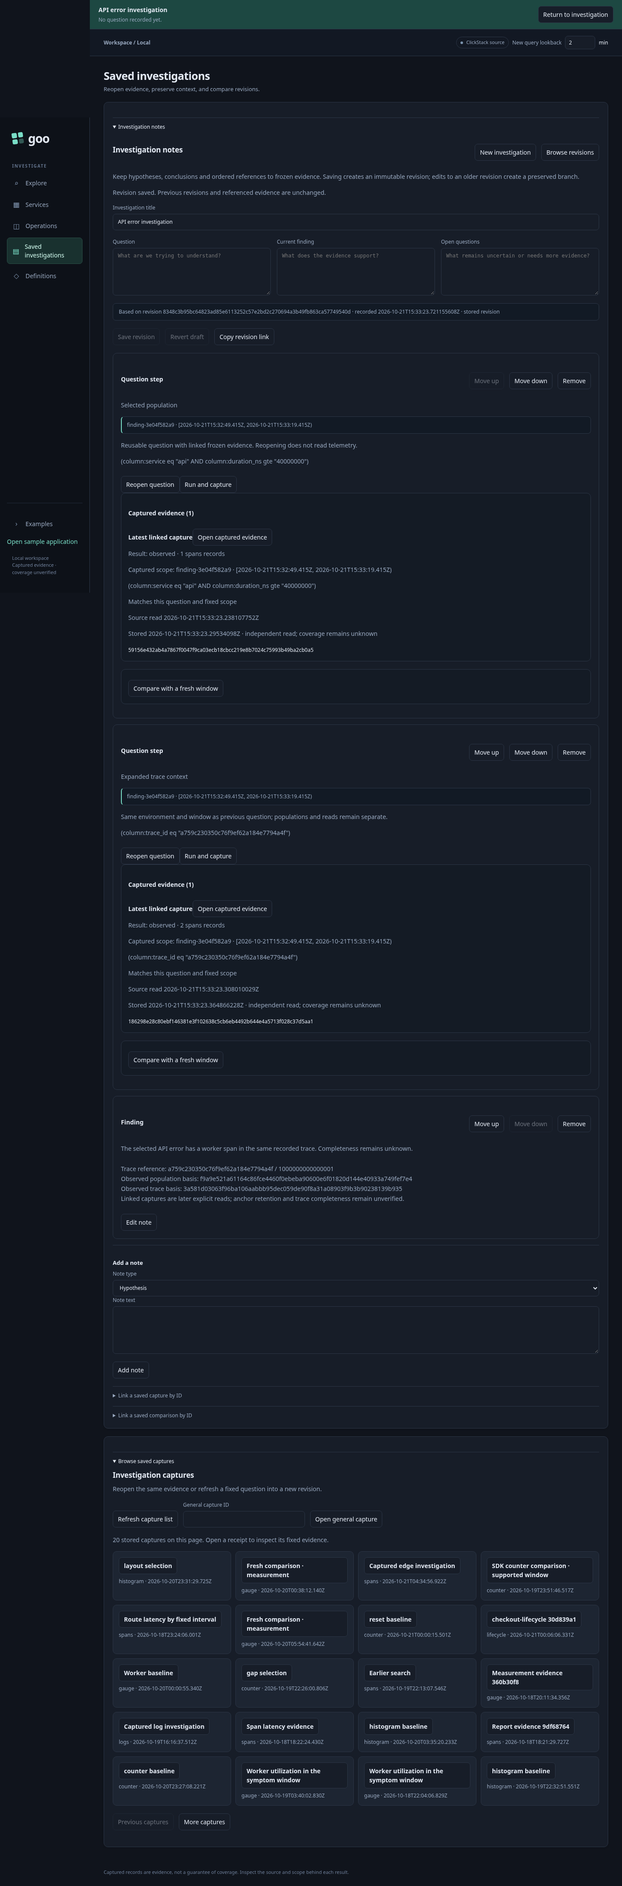
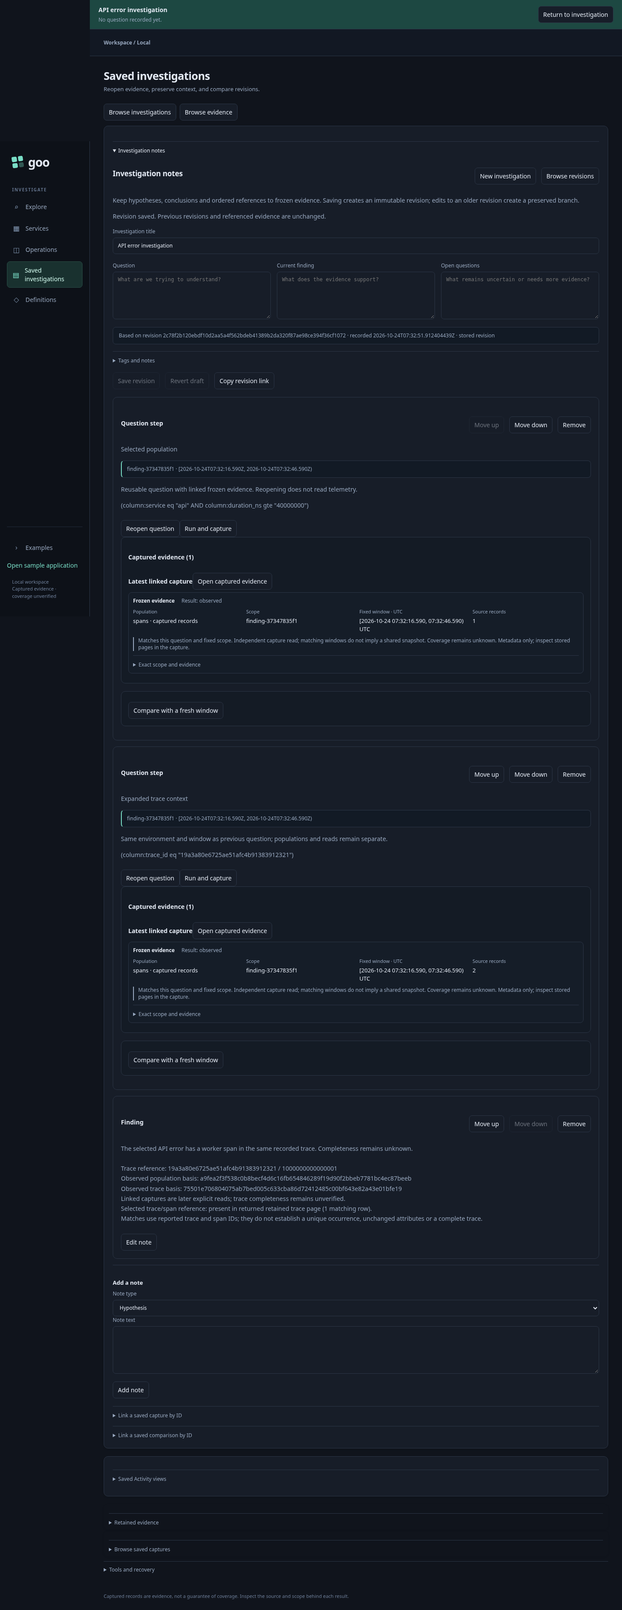
Preserve bounded trace anchor continuity in findings

diff --git a/ui/trace-journey.js b/ui/trace-journey.js
@@ -1,7 +1,20 @@
 /* Application adapters connect Go-selected page examples to explicit evidence custody. */
 (function(global){
  const workspace=()=>global.GooWorkspace||(typeof module!=='undefined'?require('./workspace'):null);
- function findingCards({population,trace,text,traceID,spanID='',populationBasis,traceBasis}){
+ // Reference continuity checks only the returned retained page, never unseen pages.
+ function anchorContinuity(page,traceID,spanID){
+  const unavailable=reason=>({state:'unavailable',text:'Selected trace/span reference: unavailable ('+reason+').'});
+  if(!/^[a-f0-9]{32}$/.test(traceID||'')||/^0+$/.test(traceID)||!/^[a-f0-9]{16}$/.test(spanID||'')||/^0+$/.test(spanID))return unavailable('usable selected span reference missing');
+  const r=page?.explore;let step;
+  try{step=workspace().questionFromEvidence(page?.receipt).step;const q=step.record;if(step.kind!=='record'||q.signal!=='spans'||q.where?.all?.length!==1||q.where.all[0].field?.kind!=='column'||q.where.all[0].field.key!=='trace_id'||q.where.all[0].op!=='eq'||q.where.all[0].value!==traceID||!r?.question||workspace().evidenceDifference(step,{kind:'explore',explore:r.question}).length)return unavailable('returned page scope does not match the trace capture');}catch{return unavailable('trace capture page unavailable');}
+  if(!['observed','no_data'].includes(r.state)||!Array.isArray(r.rows))return unavailable('retained page rows unavailable or read changed');
+  const usable=row=>row&&typeof row==='object'&&!Array.isArray(row)&&/^[a-f0-9]{32}$/.test(row.TraceId||'')&&!/^0+$/.test(row.TraceId)&&/^[a-f0-9]{16}$/.test(row.SpanId||'')&&!/^0+$/.test(row.SpanId);
+  const matches=r.rows.filter(row=>usable(row)&&row.TraceId===traceID&&row.SpanId===spanID).length;
+  if(!matches&&r.rows.some(row=>!usable(row)))return unavailable('some returned rows lack usable trace/span references');
+  const state=matches?'present':'page-miss',text='Selected trace/span reference: '+(matches?'present in returned retained trace page ('+matches+' matching '+(matches===1?'row':'rows')+').':'not found in returned retained trace page.')+'\nMatches use reported trace and span IDs; they do not establish a unique occurrence, unchanged attributes or a complete trace.'+(page.nextCursor||r.hasMore?'\nOnly this returned page was checked; more retained pages exist.':'')+(page.recordsLimited?'\nThe capture retained a bounded source subset.':'');
+  return {state,matches,text};
+ }
+ function findingCards({population,trace,text,traceID,spanID='',populationBasis,traceBasis,tracePage}){
   if(typeof text!=='string'||!text.trim()||new TextEncoder().encode(text).length>3000)throw Error('Enter a finding of at most 3000 UTF-8 bytes.');
   if(!/^[a-f0-9]{32}$/.test(traceID)||/^0+$/.test(traceID)||spanID&&(!/^[a-f0-9]{16}$/.test(spanID)||/^0+$/.test(spanID)))throw Error('Invalid trace reference.');
   const a=workspace().questionFromEvidence(population),b=workspace().questionFromEvidence(trace);
@@ -9,7 +22,7 @@
   const p=a.step.scope,t=b.step.scope,q=b.step.record;
   if(!workspace().sameWindow(p,t)||q.where?.all?.length!==1||q.where.all[0].field?.kind!=='column'||q.where.all[0].field.key!=='trace_id'||q.where.all[0].op!=='eq'||q.where.all[0].value!==traceID)throw Error('Trace capture differs from the selected population environment, window or exact trace reference.');
   const basis=v=>/^[a-f0-9]{64}$/.test(v||'')?v:'unavailable';
-  return [{...a,key:population.id,caption:'Selected population'},{...b,key:trace.id,caption:'Expanded trace context'},{kind:'note',role:'finding',text:text.trim()+'\n\nTrace reference: '+traceID+(spanID?' / '+spanID:'')+'\nObserved population basis: '+basis(populationBasis)+'\nObserved trace basis: '+basis(traceBasis)+'\nLinked captures are later explicit reads; anchor retention and trace completeness remain unverified.'}];
+  return [{...a,key:population.id,caption:'Selected population'},{...b,key:trace.id,caption:'Expanded trace context'},{kind:'note',role:'finding',text:text.trim()+'\n\nTrace reference: '+traceID+(spanID?' / '+spanID:'')+'\nObserved population basis: '+basis(populationBasis)+'\nObserved trace basis: '+basis(traceBasis)+'\nLinked captures are later explicit reads; trace completeness remains unverified.\n'+anchorContinuity(tracePage?.receipt?.id===trace.id?tracePage:null,traceID,spanID).text}];
  }
  function examples(host,data,{openTrace}={}){
   const node=global.GooUI.node;host.replaceChildren();host.className='trace-example-section';host.hidden=data.question.signal!=='spans';if(host.hidden)return;
@@ -20,7 +33,7 @@
  }
  function finding(host,{population,trace,traceID,spanID,populationBasis,traceBasis,current=()=>host.isConnected}){
   const node=global.GooUI.node,details=node('details',undefined,'trace-finding'),text=node('textarea'),label=node('label','Finding supported by this evidence'),button=node('button','Capture evidence and stage finding'),status=node('p'),recovery=node('div');text.maxLength=3000;text.rows=3;label.append(text);details.append(node('summary','Record a finding'),label,node('p','Reread the selected population and expanded trace as two independent captures, then stage both with your finding. Save the investigation revision explicitly. Later reads may differ from these observed views.'),button,status,recovery);host.append(details);status.setAttribute('role','status');button.disabled=true;text.oninput=()=>{button.disabled=!text.value.trim()};
-  button.onclick=async()=>{if(!current())return;const expected=global.GooDocuments.context?.();if(expected?.busy||expected?.pending){status.textContent='Finish the pending note or save operation before capturing a finding.';return}const message=text.value,selectedSpan=spanID();if(!message.trim()||new TextEncoder().encode(message).length>3000){status.textContent='Enter a finding of at most 3000 UTF-8 bytes.';return}button.disabled=text.disabled=true;const captured=[];recovery.replaceChildren();status.textContent='Capturing selected population and expanded trace…';try{for(const [title,q]of [['Finding population',population],['Finding trace '+traceID,trace]]){if(!current())throw Error('Trace context changed.');const response=await fetch('/api/captures',{method:'POST',headers:{'Content-Type':'application/json'},body:JSON.stringify({title,question:{kind:'explore',explore:q}})}),page=await response.json();if(!response.ok)throw Error(page.error||'Capture unavailable');captured.push(page.receipt);const link=node('a','Open retained '+title.toLowerCase());link.href='#capture='+page.receipt.id;recovery.append(link,node('small',page.receipt.id,'reference-id'))}if(!current())throw Error('Trace context changed. Captures remain retained.');const bundle={population:captured[0],trace:captured[1],text:message,traceID,spanID:selectedSpan,populationBasis,traceBasis};global.GooDocuments.stageFinding(bundle,expected);status.textContent='Finding and both captures staged. Save the investigation revision to preserve them.'}catch(e){status.textContent=e.message+(captured.length?' Retained captures are linked below; no finding was staged.':' No finding was staged.')}finally{button.disabled=false;text.disabled=false}};
+  button.onclick=async()=>{if(!current())return;const expected=global.GooDocuments.context?.();if(expected?.busy||expected?.pending){status.textContent='Finish the pending note or save operation before capturing a finding.';return}const message=text.value,selectedSpan=spanID();if(!message.trim()||new TextEncoder().encode(message).length>3000){status.textContent='Enter a finding of at most 3000 UTF-8 bytes.';return}button.disabled=text.disabled=true;const captured=[],pages=[];recovery.replaceChildren();status.textContent='Capturing selected population and expanded trace…';try{for(const [title,q]of [['Finding population',population],['Finding trace '+traceID,trace]]){if(!current())throw Error('Trace context changed.');const response=await fetch('/api/captures',{method:'POST',headers:{'Content-Type':'application/json'},body:JSON.stringify({title,question:{kind:'explore',explore:q}})}),page=await response.json();if(!response.ok)throw Error(page.error||'Capture unavailable');captured.push(page.receipt);pages.push(page);const link=node('a','Open retained '+title.toLowerCase());link.href='#capture='+page.receipt.id;recovery.append(link,node('small',page.receipt.id,'reference-id'))}if(!current())throw Error('Trace context changed. Captures remain retained.');const bundle={population:captured[0],trace:captured[1],text:message,traceID,spanID:selectedSpan,populationBasis,traceBasis,tracePage:pages[1]};global.GooDocuments.stageFinding(bundle,expected);status.textContent='Finding and both captures staged. Save the investigation revision to preserve them.'}catch(e){status.textContent=e.message+(captured.length?' Retained captures are linked below; no finding was staged.':' No finding was staged.')}finally{button.disabled=false;text.disabled=false}};
  }
- const api={findingCards,examples,finding};if(typeof module!=='undefined')module.exports=api;else global.GooTraceJourney=api;
+ const api={anchorContinuity,findingCards,examples,finding};if(typeof module!=='undefined')module.exports=api;else global.GooTraceJourney=api;
 })(typeof window==='undefined'?globalThis:window);

diff --git a/journeys/trace-finding.spec.js b/journeys/trace-finding.spec.js
@@ -15,6 +15,6 @@ test('87 follow bounded trace examples and explicitly preserve a finding',async(
  let attempts=0;await page.route('**/api/captures',route=>{if(route.request().method()!=='POST')return route.continue();return ++attempts===2?route.fulfill({status:503,json:{error:'Trace capture unavailable'}}):route.continue()});
  await form.getByRole('button',{name:'Capture evidence and stage finding'}).click();await expect(form.getByRole('status')).toContainText('no finding was staged');await expect(form.getByRole('link',{name:'Open retained finding population'})).toBeVisible();expect(writes).toBe(0);await expect(page.locator('#documentCards [data-kind=question]')).toHaveCount(0);expect(captures).toHaveLength(1);const orphan=captures.shift();expect((await request.get(base+'/api/captures/'+orphan.receipt.id)).ok()).toBe(true);await page.unroute('**/api/captures');
  await form.getByRole('button',{name:'Capture evidence and stage finding'}).click();await expect(page.locator('#documentCards [data-kind=question]')).toHaveCount(2);expect(writes).toBe(0);expect(captures).toHaveLength(2);expect(captures[0].receipt.question.explore.where).toEqual(q.where);expect(captures[1].receipt.question.explore.where).toEqual({all:[{field:{kind:'column',key:'trace_id'},op:'eq',value:traces[0]}]});expect(captures[1].receipt.question.explore.environment).toBe(environment);expect(captures[1].receipt.question.explore.fromMs).toBe(q.fromMs);expect(captures[1].explore.count).toBe('2');
- await page.locator('#documentTitle').fill('API error investigation');const saved=page.waitForResponse(r=>r.url().endsWith('/api/documents')&&r.request().method()==='POST');await page.locator('#documentSave').click();const doc=await(await saved).json();await expect(page.locator('#documentStatus')).toContainText('Revision saved');expect(doc.cards).toHaveLength(3);expect(doc.cards[0].evidence).toEqual([captures[0].receipt.id]);expect(doc.cards[1].evidence).toEqual([captures[1].receipt.id]);expect(doc.cards[2].text).toContain(traces[0]);await page.screenshot({path:'docs/journeys/screenshots/87c-saved-trace-finding.png',fullPage:true});
+ await page.locator('#documentTitle').fill('API error investigation');const saved=page.waitForResponse(r=>r.url().endsWith('/api/documents')&&r.request().method()==='POST');await page.locator('#documentSave').click();const doc=await(await saved).json();await expect(page.locator('#documentStatus')).toContainText('Revision saved');expect(doc.cards).toHaveLength(3);expect(doc.cards[0].evidence).toEqual([captures[0].receipt.id]);expect(doc.cards[1].evidence).toEqual([captures[1].receipt.id]);expect(doc.cards[2].text).toContain(traces[0]);expect(doc.cards[2].text).toContain('Selected trace/span reference: present in returned retained trace page (1 matching row).');expect(doc.cards[2].text).toContain('unchanged attributes or a complete trace');await page.screenshot({path:'docs/journeys/screenshots/87c-saved-trace-finding.png',fullPage:true});
  const expected=await page.evaluate(()=>GooDocuments.context());await page.locator('#documentTitle').fill('Unsaved concurrent edit');const rejection=await page.evaluate(({bundle,expected})=>{try{GooDocuments.stageFinding(bundle,expected);return ''}catch(e){return e.message}},{bundle:{population:captures[0].receipt,trace:captures[1].receipt,text:'Must not enter a changed investigation',traceID:traces[0]},expected});expect(rejection).toContain('Investigation changed');await expect(page.locator('#documentCards [data-kind=question]')).toHaveCount(2);expect(writes).toBe(1);const readsBeforeReopen=sourceReads;const count=captures.length;await page.goto(base+'/#document='+doc.id);await expect(page.locator('#documentCards [data-kind=question]')).toHaveCount(2);expect(captures.length).toBe(count);expect(sourceReads).toBe(readsBeforeReopen);expect(writes).toBe(1);await page.setViewportSize({width:390,height:844});expect(await page.evaluate(()=>document.documentElement.scrollWidth<=innerWidth)).toBe(true);expect(errors).toEqual([]);const dir=path.resolve('artifacts/trace-finding',environment);await fs.mkdir(dir,{recursive:true});const ledger=path.join(dir,'ledger.json');await fs.writeFile(ledger,JSON.stringify({q,captures,doc,orphan,traceID:traces[0],beforeReopen:readsBeforeReopen,afterReopen:sourceReads}));await verifyWithGo(dir,'TestQuintTraceFindingLedger',{GOO_TRACE_FINDING_LEDGER:ledger});if(process.env.GOO_TRACE_FINDING_BOMBADIL==='1'){const actor=await startBombadil({dir:path.join(dir,'bombadil'),url:base+'/'+stepLink(recordStep(q)),specification:'verification/bombadil/trace-finding.ts',seconds:30});try{await actor.finish()}finally{await actor.stop()}}
 });

diff --git a/tests/trace-journey.test.js b/tests/trace-journey.test.js
@@ -1,4 +1,11 @@
-const {test}=require('node:test'),assert=require('node:assert/strict'),{findingCards}=require('../ui/trace-journey');
+const {test}=require('node:test'),assert=require('node:assert/strict'),{findingCards,anchorContinuity}=require('../ui/trace-journey');
 const id=n=>String(n).padStart(64,'0'),traceID='1'.repeat(32),spanID='2'.repeat(16),base={signal:'spans',environment:'prod',fromMs:1000,toMs:2000,limit:100,offset:0,where:{field:{kind:'attribute',key:'http.route'},op:'eq',value:'/items'}},expanded={...base,where:{all:[{field:{kind:'column',key:'trace_id'},op:'eq',value:traceID}]}},receipt=(n,q)=>({id:id(n),question:{kind:'explore',explore:structuredClone(q)}}),bundle=()=>({population:receipt(1,base),trace:receipt(2,expanded),text:'Slow matching spans cross the inventory service.',traceID,spanID,populationBasis:id(3),traceBasis:id(4)});
 test('finding stages separately scoped captured questions and an attributed authored note',()=>{const input=bundle(),before=structuredClone(input),cards=findingCards(input);assert.deepEqual(input,before);assert.equal(cards.length,3);assert.deepEqual(cards[0].evidence,[id(1)]);assert.deepEqual(cards[0].step.record,base);assert.deepEqual(cards[1].step.record,expanded);assert.equal(cards[2].role,'finding');assert.ok(cards[2].text.includes(traceID+' / '+spanID));assert.ok(cards[2].text.includes('later explicit reads'));});
 test('finding rejects drift, false trace identity, empty text and UTF8 overflow before staging',()=>{for(const mutate of [v=>v.trace.question.explore.environment='other',v=>v.trace.question.explore.toMs++,v=>v.trace.question.explore.where.all[0].value='3'.repeat(32),v=>v.trace.question.explore.where.all.push(base.where),v=>v.text='',v=>v.text='雪'.repeat(1001),v=>v.trace.id=v.population.id,v=>v.spanID='0'.repeat(16)]){const v=bundle();mutate(v);assert.throws(()=>findingCards(v))}});
+
+const page=()=>{const b=bundle();return {receipt:b.trace,explore:{question:structuredClone(expanded),state:'observed',rows:[{TraceId:traceID,SpanId:spanID,changed:'allowed'}]},recordsLimited:false}};
+test('anchor continuity checks exact reported pair on a detached retained page',()=>{const p=page(),before=structuredClone(p),a=anchorContinuity(p,traceID,spanID);assert.equal(a.state,'present');assert.equal(a.matches,1);assert.match(a.text,/unchanged attributes/);assert.deepEqual(p,before);p.explore.rows.push({...p.explore.rows[0]});assert.equal(anchorContinuity(p,traceID,spanID).matches,2);p.explore.rows[0].SpanId='3'.repeat(16);p.explore.rows.pop();p.nextCursor='next';p.recordsLimited=true;const miss=anchorContinuity(p,traceID,spanID);assert.equal(miss.state,'page-miss');assert.match(miss.text,/more retained pages/);assert.match(miss.text,/bounded source subset/);assert.doesNotMatch(miss.text,/not in capture/);});
+test('anchor continuity unavailable is distinct from observed page miss',()=>{for(const mutate of [p=>delete p.explore,p=>delete p.explore.rows,p=>p.explore.rows=null,p=>p.explore.rows=[null],p=>p.explore.rows=[{}],p=>p.explore.state='changed_between_reads',p=>p.explore.question.environment='wrong',p=>p.receipt.question.explore.where.all[0].value='4'.repeat(32),p=>p.explore.question.signal='logs']){const p=page();mutate(p);assert.equal(anchorContinuity(p,traceID,spanID).state,'unavailable');}assert.equal(anchorContinuity(page(),traceID,'').state,'unavailable');const p=page();p.explore.rows=[];p.explore.state='no_data';assert.equal(anchorContinuity(p,traceID,spanID).state,'page-miss');p.explore.rows=[null,{TraceId:traceID,SpanId:spanID}];assert.equal(anchorContinuity(p,traceID,spanID).state,'present');});
+test('finding persists bounded anchor diagnostic without changing capture schema',()=>{const b=bundle();b.tracePage=page();const note=findingCards(b)[2].text;assert.match(note,/present in returned retained trace page \(1 matching row\)/);assert.match(findingCards(bundle())[2].text,/reference: unavailable/);});
+
+test('anchor diagnostics never substitute a span ID or different capture receipt',()=>{const p=page();p.explore.rows[0].TraceId='4'.repeat(32);assert.equal(anchorContinuity(p,traceID,spanID).state,'page-miss');const b=bundle();b.tracePage=page();b.tracePage.receipt.id=id(99);assert.match(findingCards(b)[2].text,/reference: unavailable/);});

diff --git a/verification/trace_finding_test.go b/verification/trace_finding_test.go
@@ -45,9 +45,26 @@ func TestQuintTraceFindingLedger(t *testing.T) {
 			l.AfterReopen++
 		case 4:
 			l.TraceID = strings.Repeat("f", 32)
+		case 5:
+			l.Captures[1].Explore.Rows = nil
+		case 6:
+			l.Doc.Cards[2].Text = strings.ReplaceAll(l.Doc.Cards[2].Text, "present in returned retained trace page (1 matching row)", "not found in returned retained trace page")
 		}
 		p, q := l.Captures[0].Receipt.Question.Explore, l.Captures[1].Receipt.Question.Explore
-		coherent := p != nil && q != nil && p.Environment == q.Environment && p.FromMS == q.FromMS && p.ToMS == q.ToMS && reflect.DeepEqual(p.Where, l.Q.Where) && len(q.Where.All) == 1 && q.Where.All[0].Field.Key == "trace_id" && q.Where.All[0].Op == "eq" && q.Where.All[0].Value == l.TraceID && reflect.DeepEqual(l.Doc.Cards[0].Evidence, []string{l.Captures[0].Receipt.ID}) && reflect.DeepEqual(l.Doc.Cards[1].Evidence, []string{l.Captures[1].Receipt.ID}) && strings.Contains(l.Doc.Cards[2].Text, l.TraceID) && l.Doc.DocumentInput.Validate() == nil && l.Orphan.Receipt.ID != "" && l.Orphan.Receipt.ID != l.Captures[0].Receipt.ID
+		anchorMatches := 0
+		if l.Captures[1].Explore != nil {
+			for _, raw := range l.Captures[1].Explore.Rows {
+				var row struct {
+					TraceID string `json:"TraceId"`
+					SpanID  string `json:"SpanId"`
+				}
+				if json.Unmarshal(raw, &row) == nil && row.TraceID == l.TraceID && row.SpanID == "1000000000000001" {
+					anchorMatches++
+				}
+			}
+		}
+		anchorCoherent := anchorMatches == 1 && strings.Contains(l.Doc.Cards[2].Text, "Selected trace/span reference: present in returned retained trace page (1 matching row).") && strings.Contains(l.Doc.Cards[2].Text, "unchanged attributes or a complete trace")
+		coherent := anchorCoherent && p != nil && q != nil && p.Environment == q.Environment && p.FromMS == q.FromMS && p.ToMS == q.ToMS && reflect.DeepEqual(p.Where, l.Q.Where) && len(q.Where.All) == 1 && q.Where.All[0].Field.Key == "trace_id" && q.Where.All[0].Op == "eq" && q.Where.All[0].Value == l.TraceID && reflect.DeepEqual(l.Doc.Cards[0].Evidence, []string{l.Captures[0].Receipt.ID}) && reflect.DeepEqual(l.Doc.Cards[1].Evidence, []string{l.Captures[1].Receipt.ID}) && strings.Contains(l.Doc.Cards[2].Text, l.TraceID) && l.Doc.DocumentInput.Validate() == nil && l.Orphan.Receipt.ID != "" && l.Orphan.Receipt.ID != l.Captures[0].Receipt.ID
 		sink := &qobs.MemorySink{}
 		rec := qobs.NewRecorder(sink)
 		rec.Record(context.Background(), "failPublish", nil, "obs.reads", 1, "obs.linked", 0, "obs.coherent", coherent)
@@ -68,7 +85,7 @@ func TestQuintTraceFindingLedger(t *testing.T) {
 	if !check(-1) {
 		t.Fatal("observed finding rejected")
 	}
-	for i := 0; i < 5; i++ {
+	for i := 0; i < 7; i++ {
 		if check(i) {
 			t.Fatal("invalid finding accepted", i)
 		}

diff --git a/docs/BACKLOG_2026_10_24.md b/docs/BACKLOG_2026_10_24.md
@@ -10,8 +10,8 @@ implemented. The parent agent records commits and executed evidence after review
 | ID | Status | Dependency | Review gate |
 | --- | --- | --- | --- |
 | M1 Numeric measure guidance | Delivered; independently reviewed, `5f1a58d` | Existing qualified-field presenter | UI/source-ownership review |
-| M2 Corrupt measurement winner | In progress | Confirm exact historical conflict fixture | Go publication/custody review |
-| M3 Trace anchor continuity | Planned | Retained capture response shape | Product wording + evidence review |
+| M2 Corrupt measurement winner | Delivered; independently reviewed, `49b31c2` | Confirm exact historical conflict fixture | Go publication/custody review |
+| M3 Trace anchor continuity | In progress | Retained capture response shape | Product wording + evidence review |
 | M4 Ordinary draft recovery | Planned | Explicit bounded storage/restore policy | Architecture safety + real-browser review |
 | M5 Orientation and closeout | Planned | M1–M4 completed or explicitly blocked | Whole-product/docs review |
 
@@ -40,6 +40,11 @@ the next question.
 change callbacks can leave stale suggestions. Review both boundaries explicitly.
 
 ## M2 — Reject unreadable existing measurement packages
+
+Delivered in `49b31c2` after independent approval. The implementation owner
+reported passing broad Go checks for `cmd/goo`, `immutablefile` and
+`measurements`, exact 32-KiB winner boundary tests, and 16 concurrent duplicate/
+reopen tests. The local native binary was installed without an image build.
 
 **Outcome:** publication never returns success by accepting an existing winner
 that the subsequent registry read cannot decode or validate.
@@ -97,6 +102,10 @@ membership proof. Report only what the retained page actually establishes.
 
 ## M4 — Bounded ordinary investigation draft recovery
 
+The architect approved the concrete policy in
+[the draft recovery contract](INVESTIGATION_DRAFT_RECOVERY.md). Application
+implementation remains gated on M3 review; policy approval is not delivery.
+
 **Outcome:** accidental reload does not silently lose an authored ordinary
 investigation, while restore remains an explicit local staging action.
 
@@ -137,6 +146,13 @@ met in a bounded cut.
 - Shorten README orientation around Activity → narrow → inspect → analyze →
   preserve/reuse; link the roadmap and focused capability docs. Move or replace
   repetitive historical orientation without deleting actual acceptance evidence.
+- Repair `UI_COMPONENTS.md` orientation narrowly: commit `c45caec` replaced
+  its component-led opening with accumulated known-issues content. Recover the
+  framework-neutral library introduction/public-element inventory from its
+  predecessor, verify it against current components, retain subsequent real
+  component contracts, and replace copied issue history with a link to
+  `KNOWN_ISSUES.md`. Do not discard current unique contracts or claim old APIs
+  remain supported without checking them. This is documentation-only work.
 - Point active plan/status references at this queue; preserve historical reviews
   as dated proposals. Reconcile only relevant current-status statements rather
   than rewrite history to claim earlier completion.

diff --git a/docs/TRACE_FINDINGS.md b/docs/TRACE_FINDINGS.md
@@ -26,7 +26,12 @@ selected population and expanded trace as two independent captures. It stages tw
 existing question cards linked to those immutable captures, followed by a finding
 note containing the trace/span references and both original observed bases.
 The note distinguishes those observed views from the later capture reads; anchor
-retention and complete trace collection remain unverified. **Save revision** is a
+continuity is checked against the returned retained trace page using both reported
+trace and span IDs. The persisted note distinguishes a match (including matching
+row count), no match on this page, and unavailable/malformed or mismatched-scope
+rows. A page miss never means the reference is absent from the capture. Additional
+retained pages and retained-subset limits are stated when present. Matching IDs
+establish neither a unique occurrence, unchanged attributes nor a complete trace. **Save revision** is a
 separate explicit action. No new document/card schema or evaluator is introduced.
 
 If a capture fails, successful captures remain accessible through recovery links;
@@ -51,8 +56,8 @@ sequenceDiagram
     UI->>Go: Capture population, then trace (explicit independent reads)
     Go->>CH: Reread each question
     Go->>Store: Retain each successful capture
-    Go-->>UI: Two immutable receipts (or recoverable partial failure)
-    UI->>UI: Stage linked questions + authored finding atomically
+    Go-->>UI: Two retained capture pages (or recoverable partial failure)
+    UI->>UI: Check selected reference in returned trace page; stage finding
     UI->>Store: Save revision (separate user action)
 ```
 
@@ -64,7 +69,8 @@ actor exercises example navigation and composing a finding without publishing.
 Hegel generates bounded-page selections and existing immutable-history state/swarm
 checks cover linked revisions. The live ledger replays through the existing Quint
 linked-evidence model using quint-go; rejecting controls change environment, time,
-trace reference, evidence links and source-read count on reopen.
+trace reference, evidence links, source-read count on reopen, missing anchor rows
+and a falsely reported anchor outcome. No capture wire schema or old bytes change.
 
 ![Bounded trace example](journeys/screenshots/87a-bounded-trace-example.png)
 ![Trace and authored finding](journeys/screenshots/87b-trace-finding.png)

diff --git a/VALIDATION.md b/VALIDATION.md
@@ -7988,3 +7988,21 @@ Checks executed with Go from `/workspace/.toolchains/go/bin`,
 No Docker build, live telemetry mutation, browser deployment or new screenshot was
 needed for this backend-only conflict correction. Independent milestone review approved the final patch with no blocking findings; no power-loss durability or hostile external file-mutation guarantee
 is added.
+
+
+## 2026-10-24 — M3 trace finding anchor continuity
+
+`node --check ui/trace-journey.js` and `node --test tests/trace-journey.test.js`
+pass, including exact pair/namespace mismatches, duplicate reported IDs, malformed
+or missing rows, changed reads, page scope/receipt mismatch, observed empty page,
+pagination/subset qualifiers and immutable input preservation. Journey87 passes
+against real collector/ClickHouse with `GOO_TRACE_FINDING_BOMBADIL=1` (1.1minutes).
+Its persisted finding states that the selected reference appears in one returned
+retained trace-page row, without uniqueness/unchanged-attributes/completeness
+claims; partial capture recovery, save/reopen and mobile checks remain passing.
+Native `TestQuintTraceFindingLedger` passes with seven rejecting mutations,
+including missing retained anchor rows and a false persisted outcome. Existing
+Bombadil example/finding composer exploration passes. Compact evidence:
+`artifacts/trace-finding/finding-37347835f1`. Frames87b/c and the trace findings
+sequence diagram are regenerated/updated. No capture schema or saved bytes change.
+Independent milestone review approved the final code/docs/evidence with no blocking findings.

diff --git a/docs/ROADMAP_2026_10_24.md b/docs/ROADMAP_2026_10_24.md
@@ -48,9 +48,10 @@ are superseded by their delivered acceptance documents.
 1. **M1 — Numeric measure field guidance: delivered.** Independently reviewed
    and committed as `5f1a58d`: shared qualified observed-field hints withdraw
    stale scope suggestions while preserving explicit type/unit choices.
-2. **M2 — Measurement publication conflict correctness: in progress.** Refuse a corrupt existing
-   winner rather than acknowledge an unreadable package as successfully published.
-3. **M3 — Trace finding continuity.** State whether the selected anchor appears in
+2. **M2 — Measurement publication conflict correctness: delivered.** Independently
+   reviewed and committed as `49b31c2`: corrupt or mismatched existing winners
+   are refused without overwriting them or reporting false publication success.
+3. **M3 — Trace finding continuity: in progress.** State whether the selected anchor appears in
    the already-returned retained trace page, without claiming source absence or
    complete traces.
 4. **M4 — Investigation draft recovery.** Recover bounded authored drafts locally
